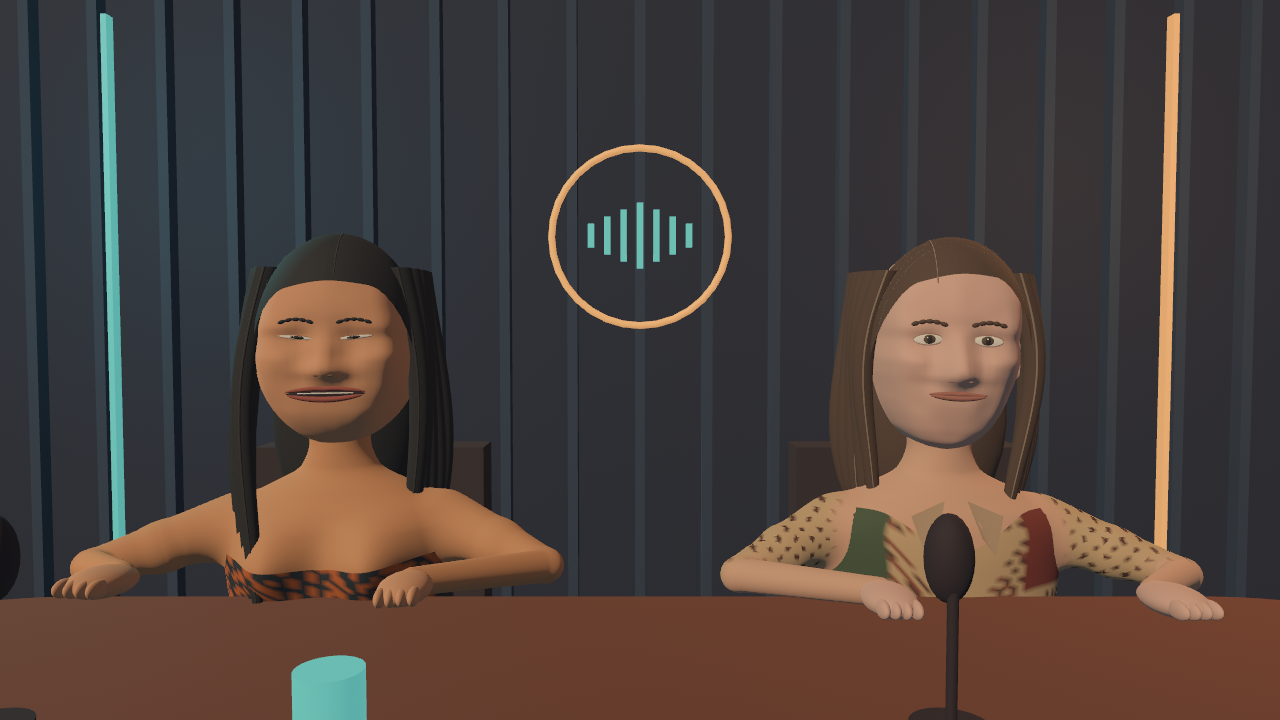
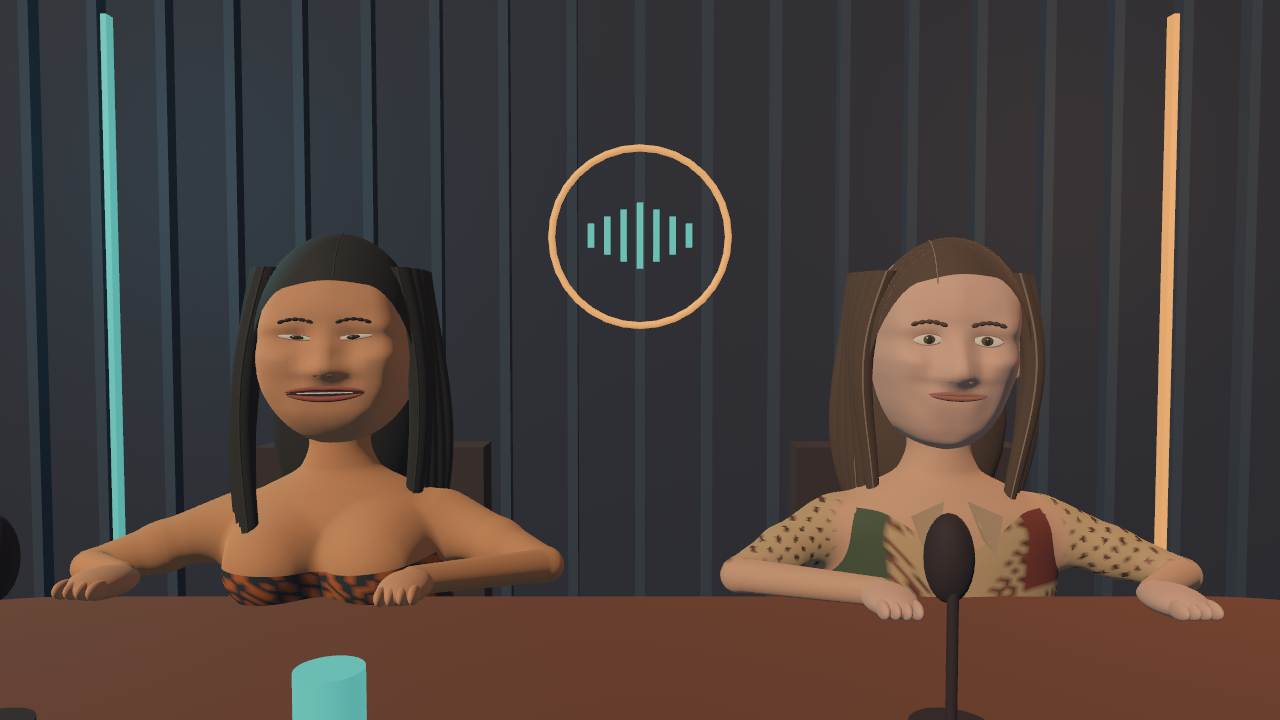
Round chest contours into fuller hemispherical caps

Changed region(s): [[0.1562, 0.7333, 0.3438, 0.8556], [0.1875, 0.7333, 0.2188, 0.7639], [0.0312, 0.7944, 0.0625, 0.825]]

diff --git a/src/studio/body.rs b/src/studio/body.rs
@@ -99,16 +99,32 @@ pub fn front(index: usize, horizontal: f32, height: f32) -> f32 {
 }
 
 pub fn chest_offset(index: usize, horizontal: f32, height: f32, depth: f32) -> f32 {
-    if index != 0 {
+    if index != 0 || depth <= 0.0 || (height - 0.48).abs() >= 0.115 * 1.35 {
         return 0.0;
     }
-    let left = (-((horizontal + 0.125) / 0.080).powi(2)).exp();
-    let right = (-((horizontal - 0.125) / 0.080).powi(2)).exp();
-    let center = (-(horizontal / 0.045).powi(2)).exp();
-    let vertical = (-((height - 0.48) / 0.095).powi(2)).exp()
-        * smoothstep((height - 0.30) / 0.06)
-        * (1.0 - smoothstep((height - 0.55) / 0.09));
-    (0.090 * (left + right) - 0.006 * center) * vertical * smoothstep(depth / 0.06)
+    let profile = profile(index, height);
+    let baseline = profile.y * (1.0 - (horizontal / profile.x).powi(2)).max(0.0).sqrt();
+    let cap = |center: f32| {
+        let radial_squared =
+            ((horizontal - center) / 0.110).powi(2) + ((height - 0.48) / 0.115).powi(2);
+        let radius = radial_squared.sqrt();
+        if radius >= 1.35 {
+            return 0.0;
+        }
+        let reference = profile.y * (1.0 - (center / profile.x).powi(2)).max(0.0).sqrt();
+        let transition = ((radius - 0.75) / 0.60).clamp(0.0, 1.0);
+        let dome = if radius <= 0.75 {
+            (1.0 - radial_squared).sqrt()
+        } else {
+            let height = (1.0_f32 - 0.75_f32.powi(2)).sqrt();
+            let slope = -0.75 / height;
+            height * (2.0 * transition.powi(3) - 3.0 * transition.powi(2) + 1.0)
+                + slope * 0.60 * (transition.powi(3) - 2.0 * transition.powi(2) + transition)
+        };
+        let rim_blend = 1.0 - smoothstep(transition);
+        (reference - baseline) * rim_blend + 0.110 * dome
+    };
+    (cap(-0.125) + cap(0.125)) * smoothstep(depth / 0.06)
 }
 
 fn torso_distance(index: usize, point: Vec3) -> f32 {
@@ -259,7 +275,18 @@ impl Surface {
                             let vertex = *edges.entry(key).or_insert_with(|| {
                                 let (start, start_distance) = grid[key.0];
                                 let (end, end_distance) = grid[key.1];
-                                let fraction = start_distance / (start_distance - end_distance);
+                                let mut fraction = start_distance / (start_distance - end_distance);
+                                let mut lower = 0.0;
+                                let mut upper = 1.0;
+                                for _ in 0..10 {
+                                    let sample = start.lerp(end, fraction);
+                                    if (distance(index, sample) > 0.0) == (start_distance > 0.0) {
+                                        lower = fraction;
+                                    } else {
+                                        upper = fraction;
+                                    }
+                                    fraction = (lower + upper) * 0.5;
+                                }
                                 let point = start.lerp(end, fraction);
                                 let vertex = surface.positions.len() as u32;
                                 let weights = weights(index, point);
@@ -270,15 +297,16 @@ impl Surface {
                                 surface.colors.push(color(index, point, weights));
                                 vertex
                             });
-                            polygon.push(vertex);
+                            let (start, start_distance) = grid[key.0];
+                            let (end, end_distance) = grid[key.1];
+                            let linear_point =
+                                start.lerp(end, start_distance / (start_distance - end_distance));
+                            polygon.push((vertex, linear_point));
                         }
                         if polygon.len() < 3 {
                             continue;
                         }
-                        let center = polygon
-                            .iter()
-                            .map(|&vertex| Vec3::from_array(surface.positions[vertex as usize]))
-                            .sum::<Vec3>()
+                        let center = polygon.iter().map(|&(_, point)| point).sum::<Vec3>()
                             / polygon.len() as f32;
                         let (origin, origin_distance) = grid[corners[tetrahedron[0]]];
                         let offsets: [Vec3; 3] = std::array::from_fn(|axis| {
@@ -294,11 +322,9 @@ impl Surface {
                             .normalize();
                         let tangent = normal.any_orthonormal_vector();
                         let bitangent = normal.cross(tangent);
-                        polygon.sort_by(|&first, &second| {
-                            let first =
-                                Vec3::from_array(surface.positions[first as usize]) - center;
-                            let second =
-                                Vec3::from_array(surface.positions[second as usize]) - center;
+                        polygon.sort_by(|&(_, first), &(_, second)| {
+                            let first = first - center;
+                            let second = second - center;
                             first
                                 .dot(bitangent)
                                 .atan2(first.dot(tangent))
@@ -306,9 +332,9 @@ impl Surface {
                         });
                         for triangle in 1..polygon.len() - 1 {
                             surface.indices.extend_from_slice(&[
-                                polygon[0],
-                                polygon[triangle],
-                                polygon[triangle + 1],
+                                polygon[0].0,
+                                polygon[triangle].0,
+                                polygon[triangle + 1].0,
                             ]);
                         }
                     }
@@ -375,6 +401,33 @@ mod tests {
     }
 
     #[test]
+    fn chest_caps_have_rounded_hemisphere_profiles_and_smooth_rims() {
+        for center in [-0.125, 0.125] {
+            for radius in [0.0_f32, 0.25, 0.5, 0.6] {
+                for segment in 0..16 {
+                    let angle = segment as f32 / 16.0 * std::f32::consts::TAU;
+                    let horizontal = center + 0.110 * radius * angle.cos();
+                    let height = 0.48 + 0.115 * radius * angle.sin();
+                    let profile = profile(0, height);
+                    let reference = profile.y * (1.0 - (center / profile.x).powi(2)).sqrt();
+                    let expected = reference + 0.110 * (1.0 - radius.powi(2)).sqrt();
+                    assert!((front(0, horizontal, height) - expected).abs() < 0.000001);
+                }
+            }
+            for boundary in [0.75_f32, 1.35] {
+                let horizontal = center;
+                let height = 0.48 + 0.115 * boundary;
+                let offset = chest_offset(0, horizontal, height, 0.15);
+                let before =
+                    (offset - chest_offset(0, horizontal, height - 0.00001, 0.15)) / 0.00001;
+                let after =
+                    (chest_offset(0, horizontal, height + 0.00001, 0.15) - offset) / 0.00001;
+                assert!((before - after).abs() < 0.02);
+            }
+        }
+    }
+
+    #[test]
     fn chest_has_two_subtle_front_contours_and_a_central_valley() {
         for height in [0.43, 0.46, 0.49] {
             let center = front(0, 0.0, height);
@@ -382,14 +435,14 @@ mod tests {
             let right = front(0, 0.125, height);
             assert!((left - right).abs() < 0.000001);
             assert!(left > center + 0.020);
-            assert!(left < 0.245);
+            assert!(left < 0.265);
             assert!(torso_distance(0, Vec3::new(0.0, height, center)).abs() < 0.000001);
             assert!(torso_distance(0, Vec3::new(0.125, height, right)).abs() < 0.000001);
         }
         let upper_center = front(0, 0.0, 0.52);
         let upper_contour = front(0, 0.125, 0.52);
         assert!(upper_contour > upper_center + 0.025);
-        assert!(upper_contour > 0.205 && upper_contour < 0.225);
+        assert!(upper_contour > 0.23 && upper_contour < 0.255);
         let (peak_position, peak_depth) = (1..=190)
             .map(|step| {
                 let horizontal = step as f32 / 1000.0;
@@ -398,7 +451,7 @@ mod tests {
             .max_by(|first, second| first.1.total_cmp(&second.1))
             .unwrap();
         assert!((0.110..0.135).contains(&peak_position));
-        assert!((0.225..0.245).contains(&peak_depth));
+        assert!((0.245..0.265).contains(&peak_depth));
         for horizontal in [-0.2, -0.11, 0.0, 0.11, 0.2] {
             assert_eq!(chest_offset(0, horizontal, 0.46, -0.15), 0.0);
             assert_eq!(chest_offset(0, horizontal, 0.70, 0.15), 0.0);
@@ -541,7 +594,7 @@ mod tests {
                     vertex_normal.is_finite() && (vertex_normal.length() - 1.0).abs() < 0.00001
                 );
                 assert!(
-                    distance(index, point).abs() < 0.012,
+                    distance(index, point).abs() < 0.0005,
                     "surface sample {point:?}: {}",
                     distance(index, point)
                 );

diff --git a/README.md b/README.md
@@ -25,7 +25,8 @@ OBS records the app window and the two audio channels.
   profile for host 2. Three-joint GPU skinning blends shoulder gestures into
   the torso without opening gaps; the surface is generated only at startup.
   Slimmer elbow transitions avoid rounded joint knobs. Host 1's chest has
-  two gentle contours with a shallow central valley, shared by skin and top.
+  two rounded, hemisphere-like contours with a central valley, shared by skin
+  and top.
 - Independent audio-driven mouth opening and vowel-like lip shapes, with a
   noise threshold and smooth transitions. Local spectral/formant analysis approximates
   open A, wide E/I and rounded O/U shapes; it is not phoneme recognition.
